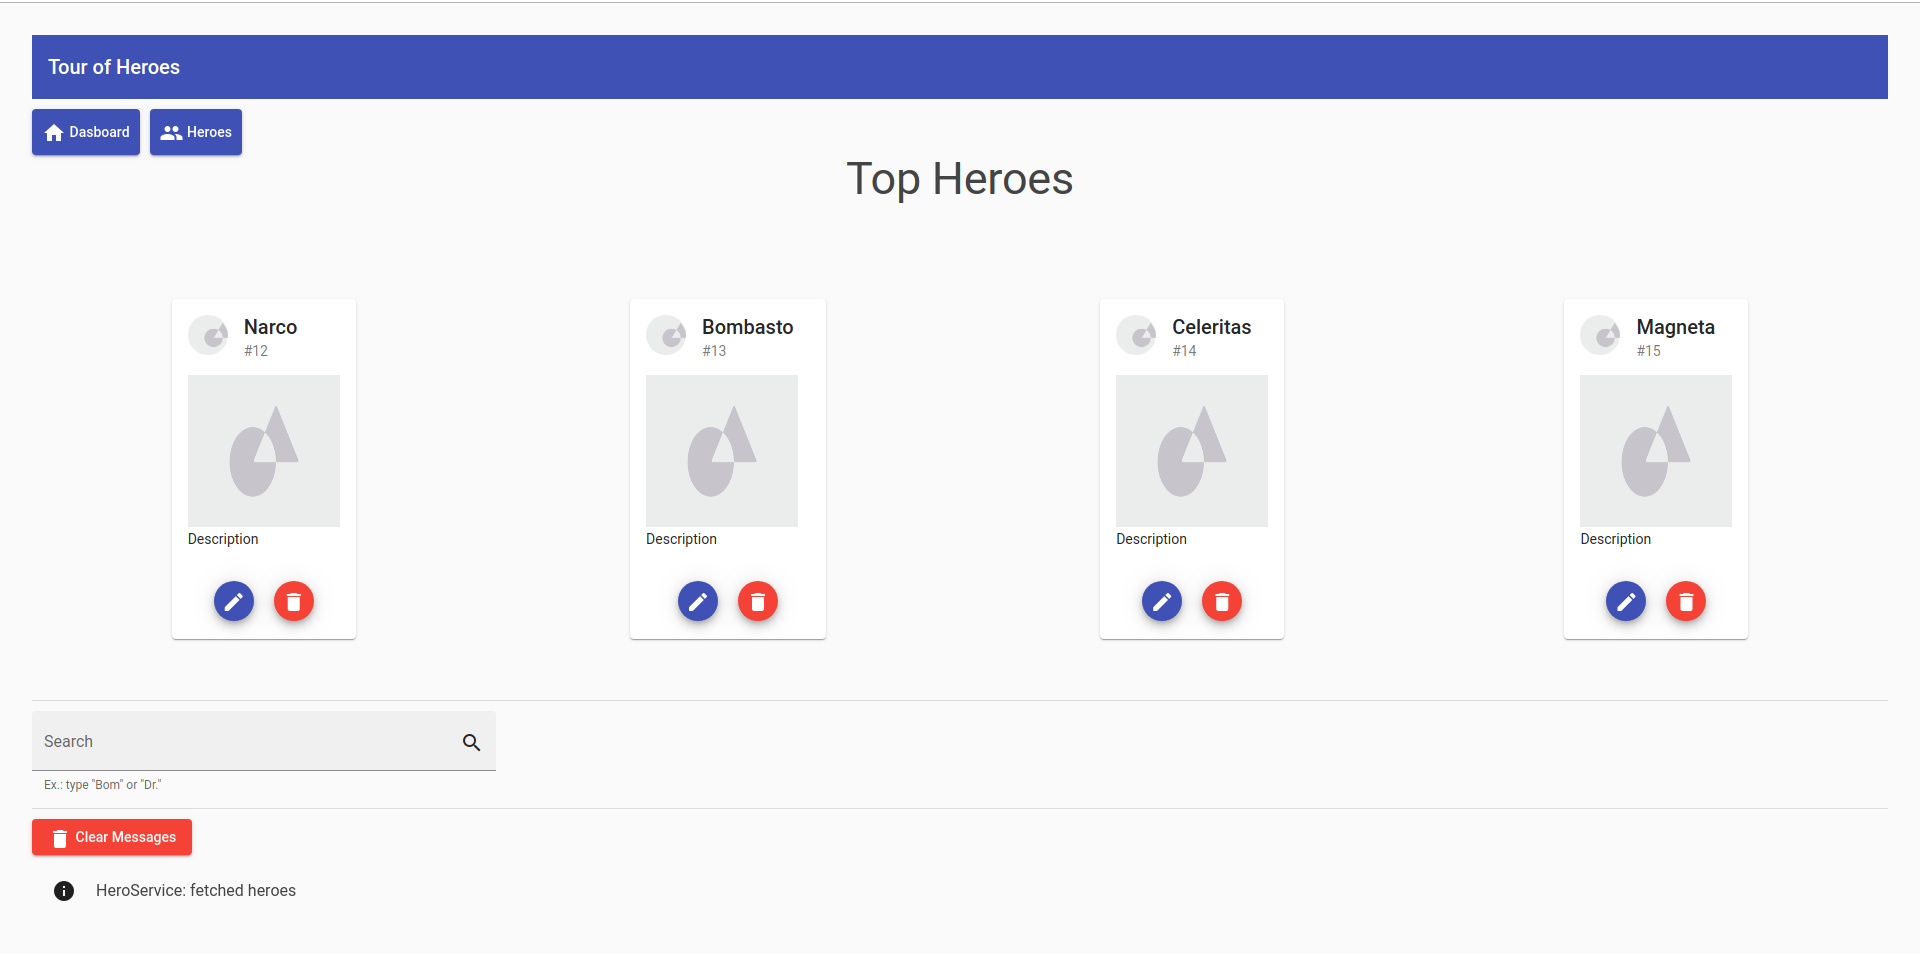
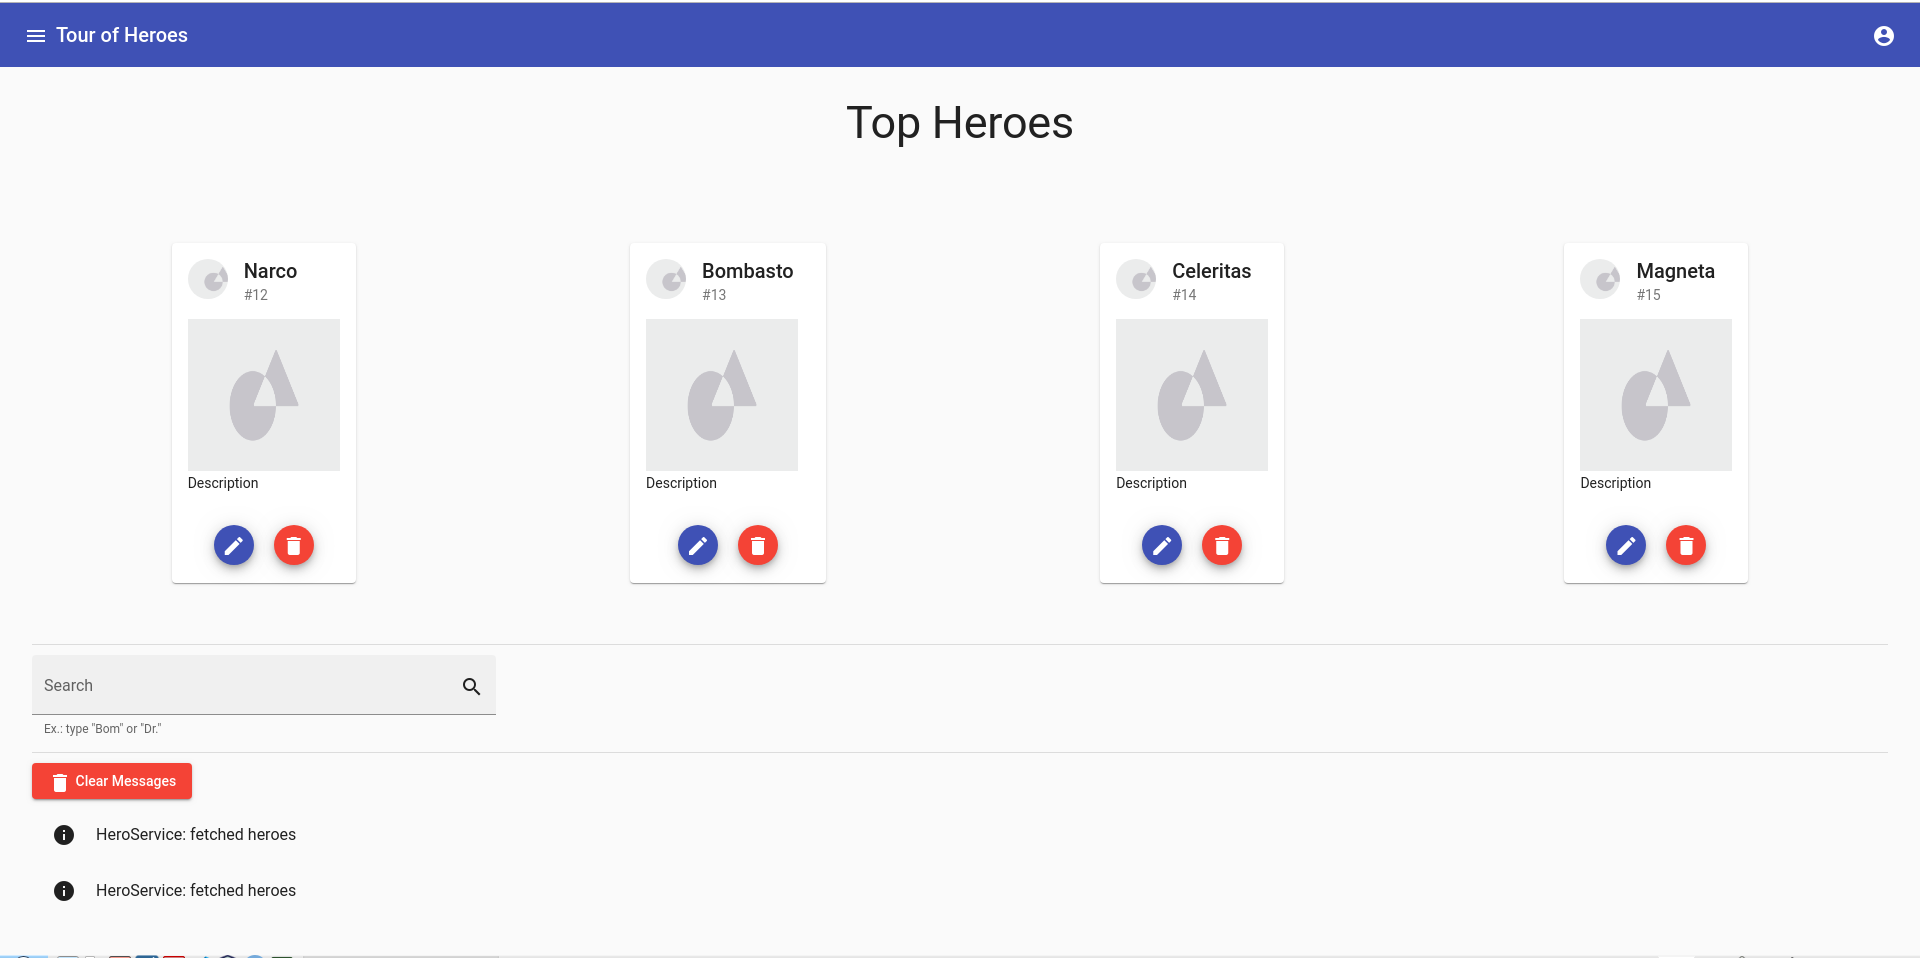
Adapta a sidenav container with menu and toolbar.

diff --git a/src/app/app.component.html b/src/app/app.component.html
@@ -1,17 +1,38 @@
-<mat-toolbar color="primary">
-    <mat-toolbar-row>
-        <span>{{title}}</span>
-    </mat-toolbar-row>
-</mat-toolbar>
-<nav>
-    <a [routerLink]="['/dashboard']" routerLinkActive="active" mat-raised-button color="primary">
-        <mat-icon aria-hidden="false" aria-label="Dasboard icon">home</mat-icon>
-        Dasboard
-    </a>
-    <a [routerLink]="['/heroes']" routerLinkActive="active" mat-raised-button color="primary">
-        <mat-icon aria-hidden="false" aria-label="Heroes icon">people</mat-icon>
-        Heroes
-    </a>
-</nav>
-<router-outlet></router-outlet>
-<app-messages></app-messages>
+<mat-sidenav-container class="sidenav-container">
+    <mat-sidenav #sidenav role="navigation">
+
+        <mat-nav-list>
+            <a *ngFor="let menuItem of menuItems" mat-list-item (click)="sidenav.close()" routerLinkActive
+                #routerLinkActiveInstance="routerLinkActive"
+                [attr.tabindex]="routerLinkActiveInstance.isActive ? 0 : -1" [routerLink]="[menuItem.route]">
+                <mat-icon aria-hidden="false" aria-label="menuItem.name">{{menuItem.icon}}</mat-icon>
+                {{menuItem.name}}
+            </a>
+
+            <hr>
+        </mat-nav-list>
+
+        <button mat-button tabindex="-1" (click)="sidenav.close()">CLOSE</button>
+    </mat-sidenav>
+
+    <main>
+        <mat-toolbar color="primary">
+            <button mat-icon-button (click)="sidenav.open('mouse')">
+                <mat-icon>menu</mat-icon>
+            </button>
+            <div class="main-toolbar">
+                <h1>{{title}}</h1>
+                <div>
+                   <button mat-icon-button [routerLink]="['/']" matTooltip="Profile">
+                        <mat-icon aria-hidden="false" aria-label="Profile icon">account_circle</mat-icon>
+                    </button>
+                </div>
+            </div>
+        </mat-toolbar>
+
+        <div class="main-content mat-app-background">
+            <router-outlet></router-outlet>
+            <app-messages></app-messages>
+        </div>
+    </main>
+</mat-sidenav-container>

diff --git a/src/app/app.component.scss b/src/app/app.component.scss
@@ -1,14 +1,62 @@
-/* AppComponent's private CSS styles. */
-h2 {
-  font-size: 2em;
-  margin-top: 0;
-  padding-top: 0;
+html, body {
+  width: 100%;
+  height: 100%;
 }
 
-nav {
-  a {
-    padding: 5px 10px;
-    margin-top: 10px;
-    margin-right: 10px;
+body {
+  font-family: Roboto, 'Helvetica Neue', sans-serif;
+  margin: 0;
+
+  * {
+    -webkit-font-smoothing: antialiased;
+    -moz-osx-font-smoothing: grayscale;
+  }
+
+  .mat-sidenav {
+    min-width: 15vw;
+    position: fixed;
+
+    .mat-button {
+      width: 100%;
+      position: relative;
+      bottom: 0;
+      margin: 24px 0;
+    }
+  }
+
+  .main-content {
+    padding: 32px;
+    box-sizing: border-box;
+  }
+
+  .mat-toolbar {
+    .mat-icon {
+      cursor: pointer;
+    }
+
+    .main-toolbar {
+      display: flex;
+      justify-content: space-between;
+      align-items: center;
+      width: 100%;
+    }
+  }
+
+  h1 {
+    font-size: 20px;
   }
 }
+
+.sidenav-container {
+  min-width: 100%;
+  min-height: 100%;
+}
+
+.main-content {
+  width: 100%;
+  height: 100%;
+  box-sizing: border-box;
+  overflow: auto;
+}
+
+

diff --git a/src/styles.scss b/src/styles.scss
@@ -1,55 +1,4 @@
 /* Angular Material Design Theme */
 @import "~@angular/material/prebuilt-themes/indigo-pink.css";
 
-/* Application-wide Styles */
-$blue: #369;
-$gray: #444;
-$black: #333;
-$font-family-arial: Arial, Helvetica, sans-serif;
-$font-family-cambria: Cambria, Georgia;
-
-h2,
-h3 {
-  color: $gray;
-  font-family: $font-family-arial;
-  font-weight: lighter;
-}
-
-body {
-  margin: 2em;
-}
-
-body,
-input[type="text"],
-button {
-  color: $black;
-  font-family: $font-family-cambria;
-}
-
-a {
-  cursor: pointer;
-  cursor: hand;
-}
-
-button {
-  font-family: Arial;
-  background-color: #eeeeee;
-  border: none;
-  padding: 5px 10px;
-  margin-left: 5px;
-  border-radius: 4px;
-  cursor: pointer;
-  cursor: hand;
-
-  &:hover {
-    background-color: #cfd8dc;
-  }
-
-  &:disabled {
-    background-color: #eeeeee;
-    color: #aaaaaa;
-    cursor: auto;
-  }
-}
-
 /* Everywhere else */

diff --git a/src/app/angular-material.module.ts b/src/app/angular-material.module.ts
@@ -24,6 +24,7 @@
 import { NgModule } from '@angular/core';
 import { MatButtonModule } from '@angular/material/button';
 import { MatToolbarModule } from '@angular/material/toolbar';
+import { MatSidenavModule } from '@angular/material/sidenav';
 import { MatIconModule } from '@angular/material/icon';
 import { MatFormFieldModule } from '@angular/material/form-field';
 import { MatInputModule } from '@angular/material/input';
@@ -40,6 +41,7 @@ import { MatSnackBarModule } from '@angular/material/snack-bar';
 const MaterialModules = [
   MatButtonModule,
   MatToolbarModule,
+  MatSidenavModule,
   MatIconModule,
   MatFormFieldModule,
   MatInputModule,

diff --git a/src/app/app.component.ts b/src/app/app.component.ts
@@ -21,13 +21,19 @@
  * OUT OF OR IN CONNECTION WITH THE SOFTWARE OR THE USE OR OTHER DEALINGS IN
  * THE SOFTWARE.
  */
-import { Component } from '@angular/core';
+import { Component, ViewEncapsulation } from '@angular/core';
 
 @Component({
   selector: 'app-root',
   templateUrl: './app.component.html',
-  styleUrls: ['./app.component.scss']
+  styleUrls: ['./app.component.scss'],
+  encapsulation: ViewEncapsulation.None,
 })
 export class AppComponent {
   title = 'Tour of Heroes';
+
+  menuItems = [
+    { name: 'Dasboard', icon: 'home', route: '/dashboard' },
+    { name: 'Heroes', icon: 'people', route: '/heroes' },
+  ];
 }

diff --git a/src/index.html b/src/index.html
@@ -13,7 +13,7 @@
   <link href="https://fonts.googleapis.com/css?family=Roboto:300,400,500" rel="stylesheet">
 </head>
 
-<body class="mat-app-background">
+<body>
   <app-root></app-root>
 </body>
 

diff --git a/README.md b/README.md
@@ -70,10 +70,9 @@ $ docker-compose stop
 # Screenshots
 
 ![](src/assets/screenshots/1.png)
-
 ![](src/assets/screenshots/2.png)
-
 ![](src/assets/screenshots/3.png)
+![](src/assets/screenshots/4.png)
 
 # License
 
